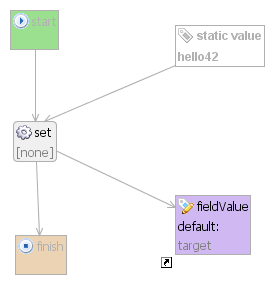
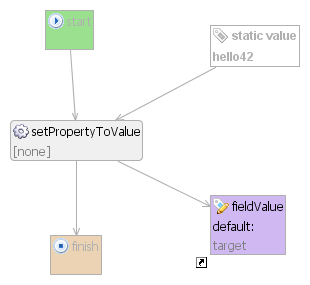
updating SetValueStatic to the correct primitive operation

diff --git a/examples/SetValueStatic/SetValueStatic-4.html b/examples/SetValueStatic/SetValueStatic-4.html
@@ -13,9 +13,9 @@ img { border: 1px solid #ccc; }
 <h2><a href="SetValueStatic.html">InternetApplication</a> > <a href="SetValueStatic-1.html">Page: 'Home'</a> > <a href="SetValueStatic-3.html">Button: 'execute'</a> > <a href="SetValueStatic-4.html">CompositeOperation: 'do operation'</a></h2>
 <img src="SetValueStatic-4.png" usemap="#generated_map">
 <map name="generated_map">
-<area shape="rect" coords="175,25,265,67" alt="StaticValue: 'static value'" title="StaticValue: 'static value'" />
-<area shape="rect" coords="10,10,59,50" alt="StartNode" title="StartNode" />
-<area shape="rect" coords="15,235,67,275" alt="FinishNode" title="FinishNode" />
-<area shape="rect" coords="175,195,251,255" alt="ApplicationElementProperty: 'fieldValue'" title="ApplicationElementProperty: 'fieldValue'" />
-<area shape="rect" coords="13,121,57,162" alt="PrimitiveOperation: 'set'" title="PrimitiveOperation: 'set'" />
+<area shape="rect" coords="210,25,300,67" alt="StaticValue: 'static value'" title="StaticValue: 'static value'" />
+<area shape="rect" coords="45,10,94,50" alt="StartNode" title="StartNode" />
+<area shape="rect" coords="50,235,102,275" alt="FinishNode" title="FinishNode" />
+<area shape="rect" coords="210,195,286,255" alt="ApplicationElementProperty: 'fieldValue'" title="ApplicationElementProperty: 'fieldValue'" />
+<area shape="rect" coords="10,120,143,161" alt="PrimitiveOperation: 'setPropertyToValue'" title="PrimitiveOperation: 'setPropertyToValue'" />
 </map></body></html>
